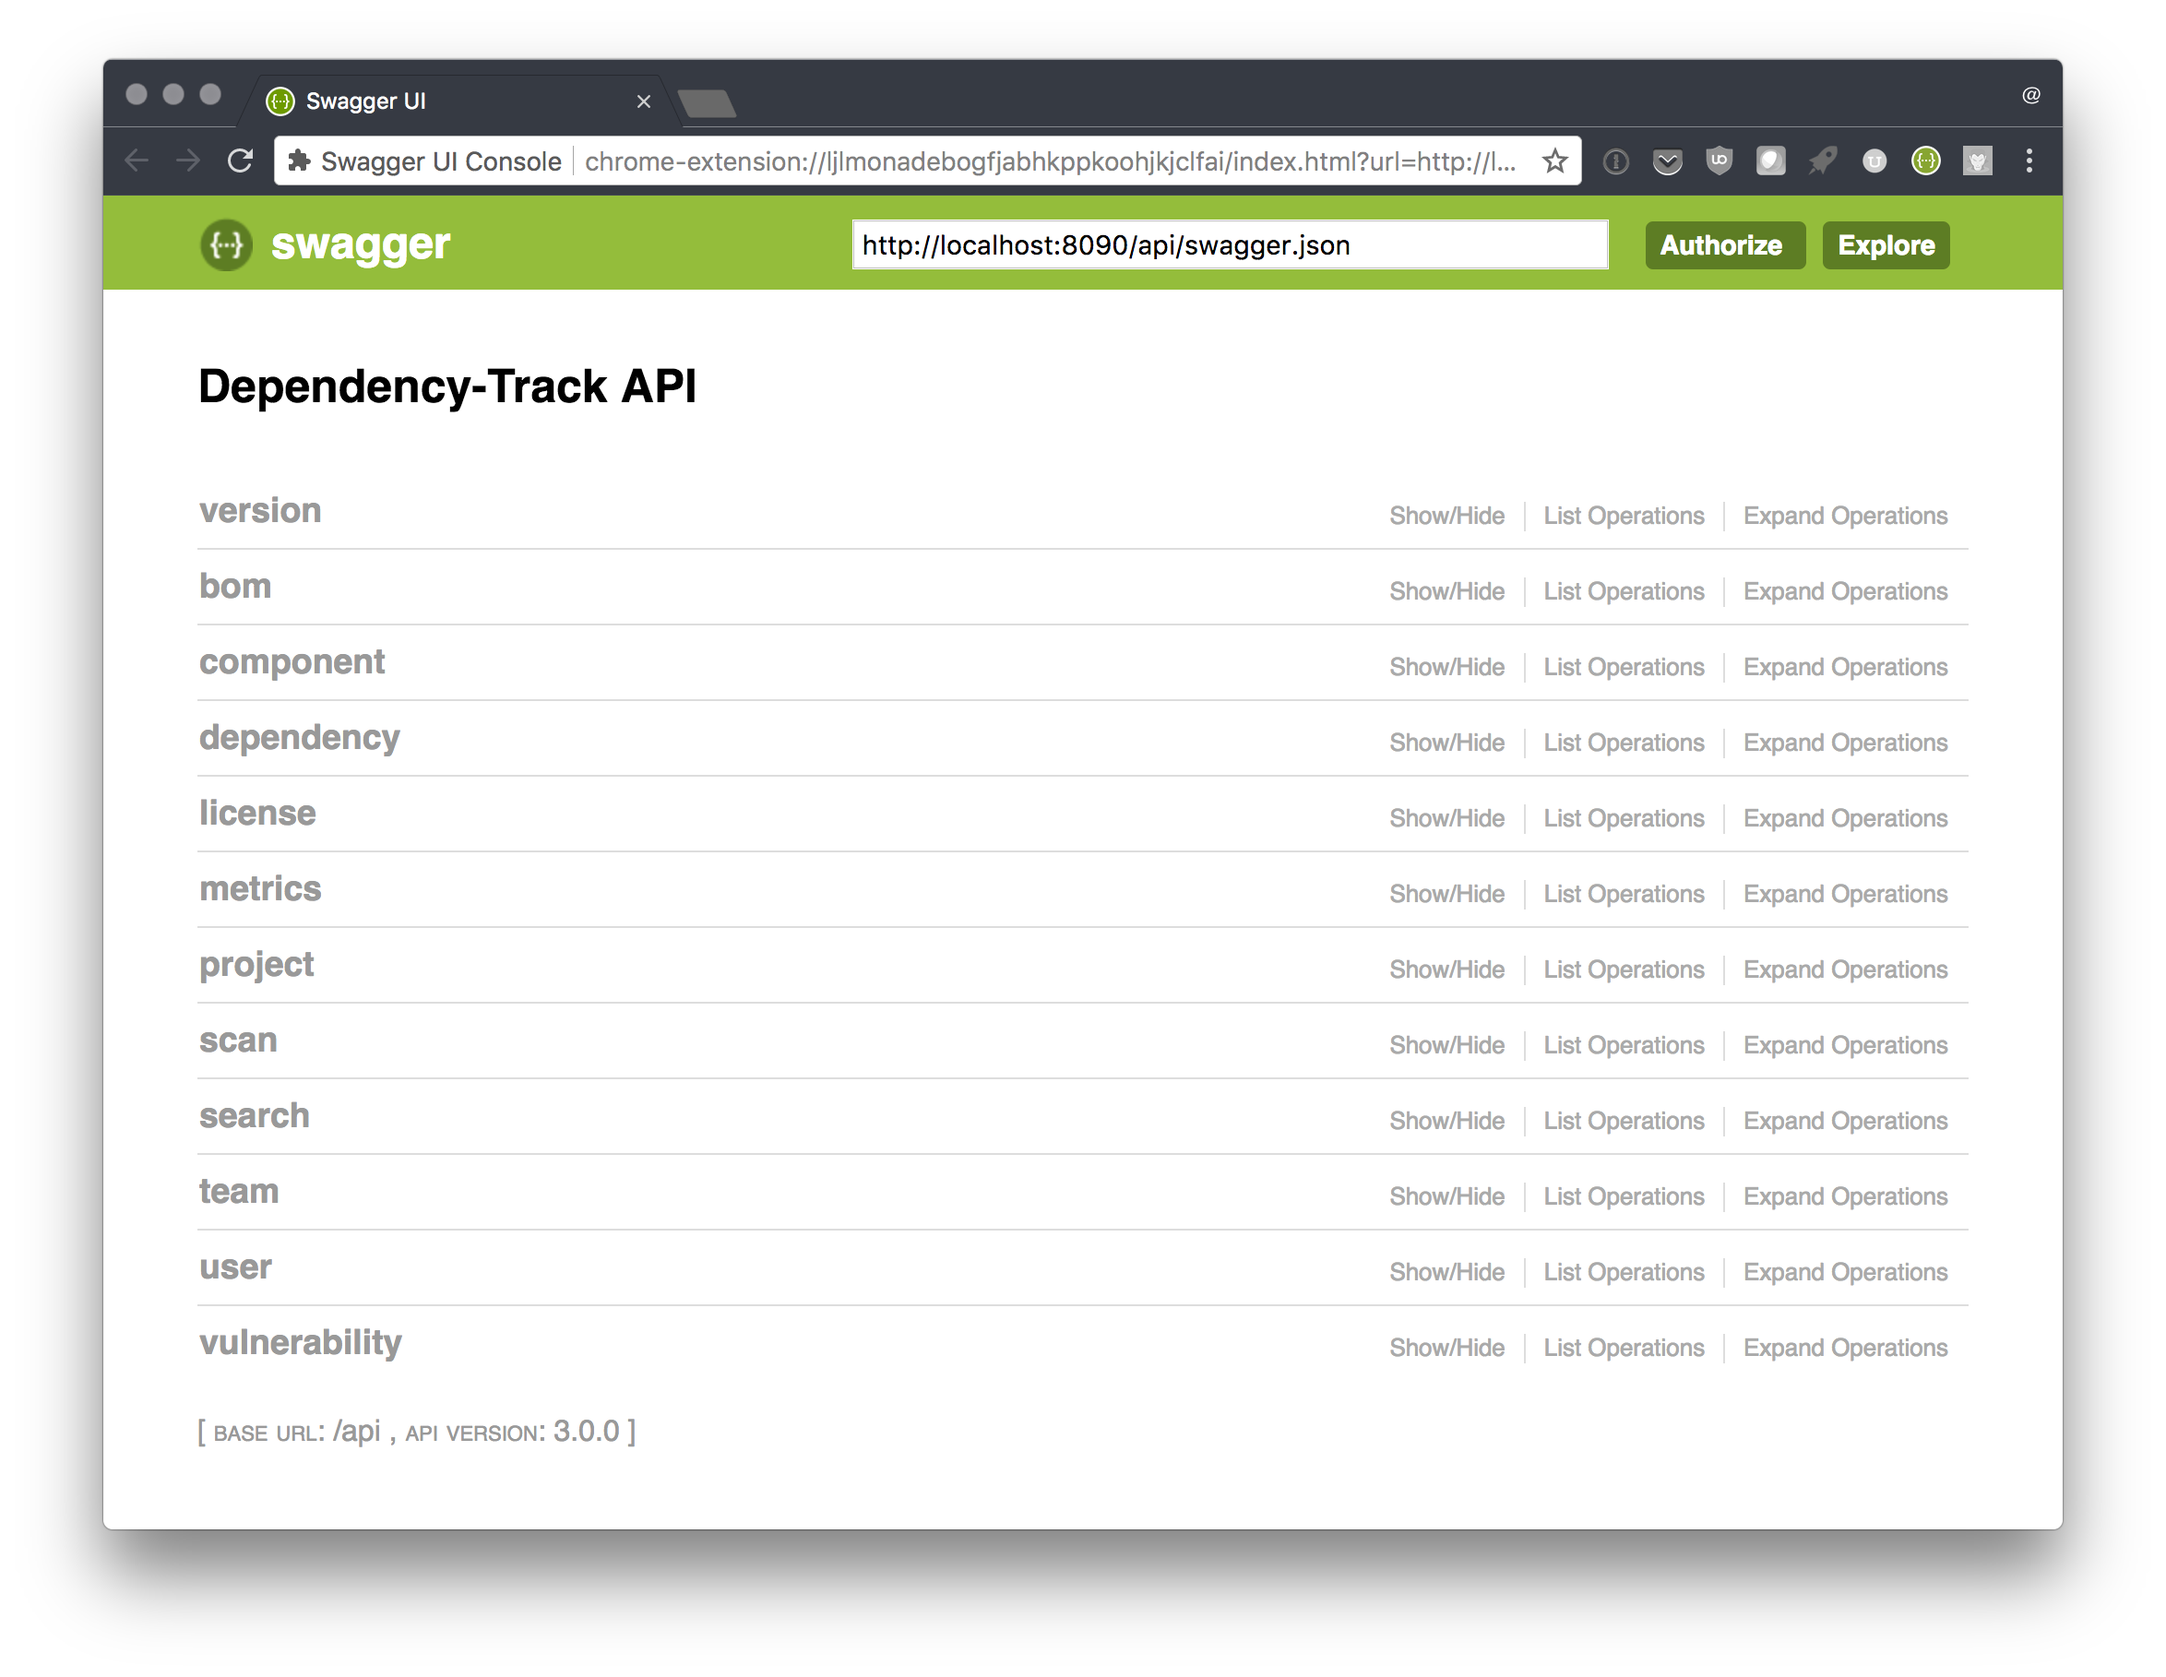
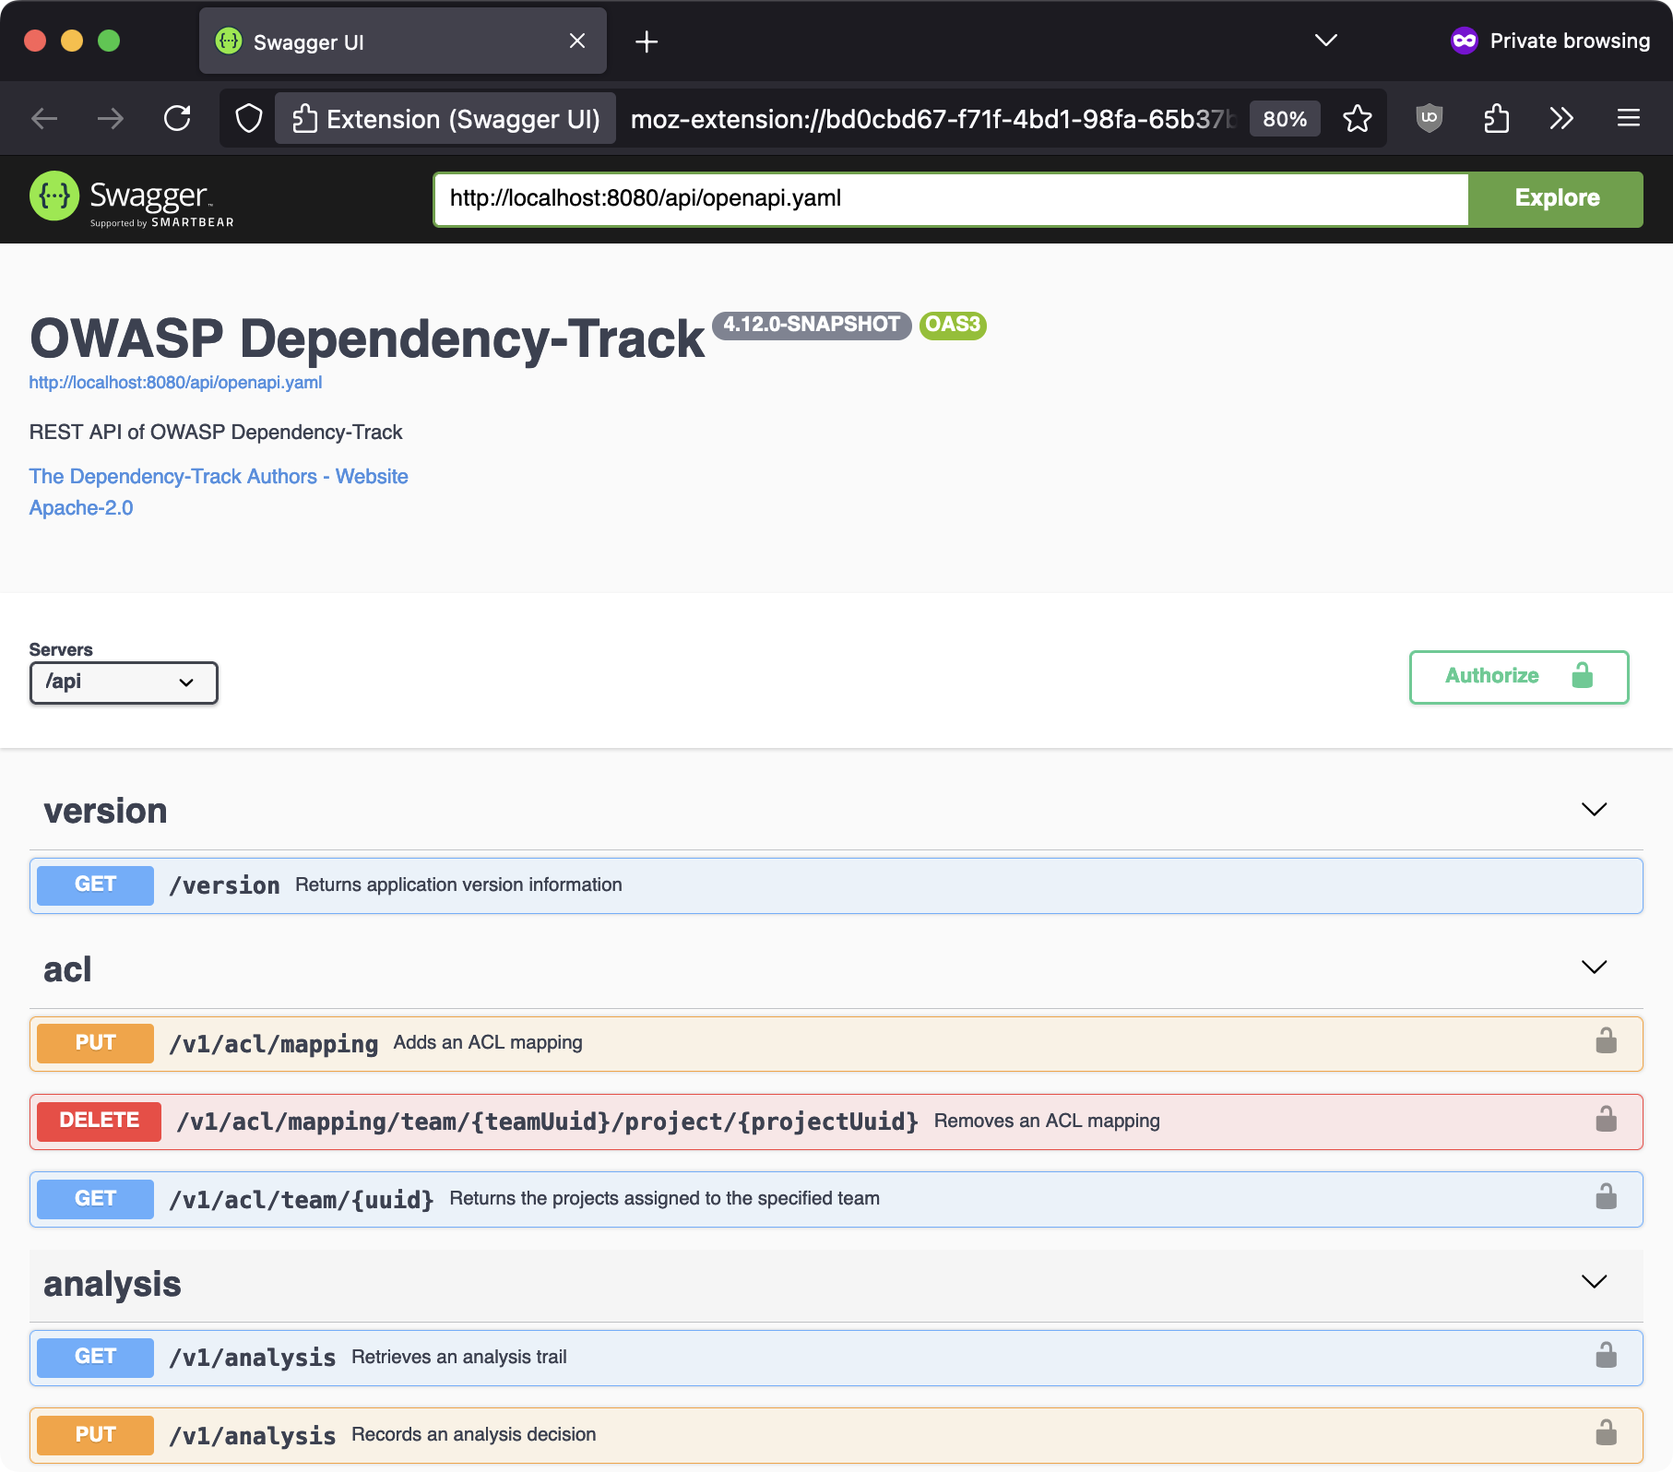
Update REST API docs to reflect change from Swagger v2 to OpenAPI v3

diff --git a/docs/_docs/integrations/rest-api.md b/docs/_docs/integrations/rest-api.md
@@ -5,16 +5,17 @@ chapter: 6
 order: 8
 ---
 
-Dependency-Track is built using a *thin server architecture* and an *API-first design*. API's are simply at the heart
-of the platform. Every API is fully documented via Swagger 2.0.
+Dependency-Track is built using a *thin server architecture* and an *API-first design*. APIs are simply at the heart
+of the platform. Every API is fully documented via OpenAPI v3.
 
-> http://{hostname}:{port}/api/swagger.json
+> http://{hostname}:{port}/api/openapi.json  
+> http://{hostname}:{port}/api/openapi.yaml
 
 The Swagger UI Console (not included) can be used to visualize and explore the wide range of possibilities. Chrome and
-FireFox extensions can be use to quickly use the Swagger UI Console.
+FireFox extensions can be used to quickly use the Swagger UI Console.
 
 ![Swagger UI Console](/images/screenshots/swagger-ui-console.png)
 
-Prior to using the REST APIs, an API Key must be generated. By default, creating a team will NOT create a an API key. A team may have multiple keys.
+Prior to using the REST APIs, an API Key must be generated. By default, creating a team will NOT create an API key. A team may have multiple keys.
 
 ![Teams - API Key](/images/screenshots/teams.png)
